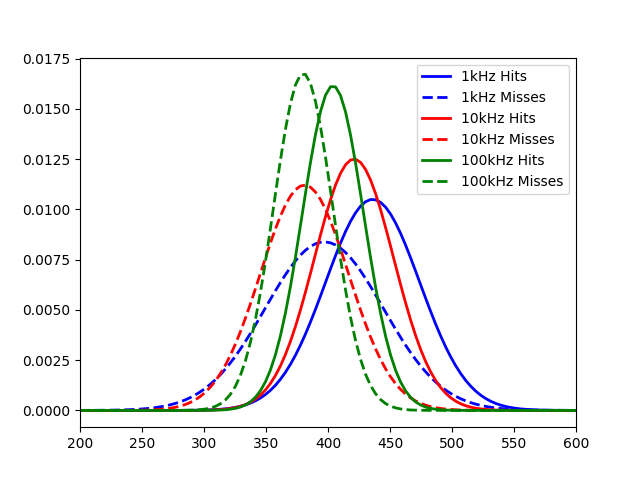
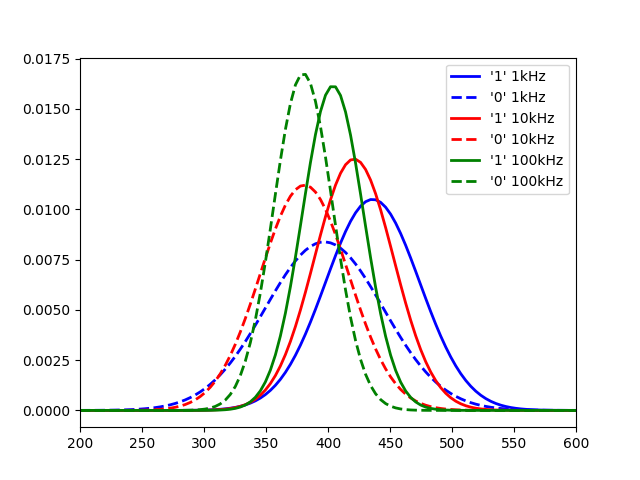
more data evaluation

Changed region(s): [[0.6562, 0.125, 0.875, 0.4062]]

diff --git a/data/intel/timings_fr.py b/data/intel/timings_fr.py
@@ -22,37 +22,37 @@ sm3 = 2.53
 
 plt.xlim(0, 300)
 xmin, xmax = plt.xlim()
-x = np.linspace(xmin, xmax, 100)
+x = np.linspace(xmin, xmax, 500)
 
 h1 = norm.pdf(x, mh1, sh1)
-plt.plot(x, h1, 'b-', linewidth=2, label="1kHz Hits")
+plt.plot(x, h1, 'b-', linewidth=2, label="'1' 1kHz")
 
 m1 = norm.pdf(x, mm1, sm1)
-plt.plot(x, m1, 'b--', linewidth=2, label="1kHz Misses")
+plt.plot(x, m1, 'b--', linewidth=2, label="'0' 1kHz")
 
 h2 = norm.pdf(x, mh2, sh2)
-plt.plot(x, h2, 'r-', linewidth=2, label="10kHz Hits")
+plt.plot(x, h2, 'r-', linewidth=2, label="'1' 10kHz")
 
 m2 = norm.pdf(x, mm2, sm2)
-plt.plot(x, m2, 'r--', linewidth=2, label="10kHz Misses")
+plt.plot(x, m2, 'r--', linewidth=2, label="'0' 10kHz")
 
 h3 = norm.pdf(x, mh3, sh3)
-plt.plot(x, h3, 'g-', linewidth=2, label="100kHz Hits")
+plt.plot(x, h3, 'g-', linewidth=2, label="'1' 100kHz")
 
 m3 = norm.pdf(x, mm3, sm3)
-plt.plot(x, m3, 'g--', linewidth=2, label="100kHz Misses")
+plt.plot(x, m3, 'g--', linewidth=2, label="'0' 100kHz")
 
 plt.legend()
 plt.show()
 
 f,(ax,ax2) = plt.subplots(1,2,sharey=True, facecolor='w')
 
-ax.plot(x, h1, 'b-', linewidth=2, label="1kHz Hits")
-ax2.plot(x, m1, 'b--', linewidth=2, label="1kHz Misses")
-ax.plot(x, h2, 'r-', linewidth=2, label="10kHz Hits")
-ax2.plot(x, m2, 'r--', linewidth=2, label="10kHz Misses")
-ax.plot(x, h3, 'g-', linewidth=2, label="100kHz Hits")
-ax2.plot(x, m3, 'g--', linewidth=2, label="100kHz Misses")
+ax.plot(x, h1, 'b-', linewidth=2, label="'1' 1kHz")
+ax2.plot(x, m1, 'b--', linewidth=2, label="'0' 1kHz")
+ax.plot(x, h2, 'r-', linewidth=2, label="'1' 10kHz")
+ax2.plot(x, m2, 'r--', linewidth=2, label="'0' 10kHz")
+ax.plot(x, h3, 'g-', linewidth=2, label="'1' 100kHz")
+ax2.plot(x, m3, 'g--', linewidth=2, label="'0' 100kHz")
 
 ax.set_xlim(30,55)
 ax2.set_xlim(255,280)
@@ -63,5 +63,7 @@ ax.yaxis.tick_left()
 ax.tick_params(labelright='off')
 ax2.yaxis.tick_right()
 
-plt.legend()
+ax.legend()
+ax2.legend()
+
 plt.show()

diff --git a/data/amd/timings_fr.py b/data/amd/timings_fr.py
@@ -22,25 +22,25 @@ sm3 = 159.5
 
 plt.xlim(0, 600)
 xmin, xmax = plt.xlim()
-x = np.linspace(xmin, xmax, 100)
+x = np.linspace(xmin, xmax, 500)
 
 h1 = norm.pdf(x, mh1, sh1)
-plt.plot(x, h1, 'b-', linewidth=2, label="1kHz Hits")
+plt.plot(x, h1, 'b-', linewidth=2, label="'1' 1kHz")
 
 m1 = norm.pdf(x, mm1, sm1)
-plt.plot(x, m1, 'b--', linewidth=2, label="1kHz Misses")
+plt.plot(x, m1, 'b--', linewidth=2, label="'0' 1kHz")
 
 h2 = norm.pdf(x, mh2, sh2)
-plt.plot(x, h2, 'r-', linewidth=2, label="10kHz Hits")
+plt.plot(x, h2, 'r-', linewidth=2, label="'1' 10kHz")
 
 m2 = norm.pdf(x, mm2, sm2)
-plt.plot(x, m2, 'r--', linewidth=2, label="10kHz Misses")
+plt.plot(x, m2, 'r--', linewidth=2, label="'0' 10kHz")
 
 h3 = norm.pdf(x, mh3, sh3)
-plt.plot(x, h3, 'g-', linewidth=2, label="100kHz Hits")
+plt.plot(x, h3, 'g-', linewidth=2, label="'1' 100kHz")
 
 m3 = norm.pdf(x, mm3, sm3)
-plt.plot(x, m3, 'g--', linewidth=2, label="100kHz Misses")
+plt.plot(x, m3, 'g--', linewidth=2, label="'0' 100kHz")
 
 plt.legend()
 plt.show()

diff --git a/data/amd/timings_ff.py b/data/amd/timings_ff.py
@@ -23,22 +23,22 @@ xmin, xmax = plt.xlim()
 x = np.linspace(xmin, xmax, 100)
 
 h1 = norm.pdf(x, mh1, sh1)
-plt.plot(x, h1, 'b-', linewidth=2, label="1kHz Hits")
+plt.plot(x, h1, 'b-', linewidth=2, label="'1' 1kHz")
 
 m1 = norm.pdf(x, mm1, sm1)
-plt.plot(x, m1, 'b--', linewidth=2, label="1kHz Misses")
+plt.plot(x, m1, 'b--', linewidth=2, label="'0' 1kHz")
 
 h2 = norm.pdf(x, mh2, sh2)
-plt.plot(x, h2, 'r-', linewidth=2, label="10kHz Hits")
+plt.plot(x, h2, 'r-', linewidth=2, label="'1' 10kHz")
 
 m2 = norm.pdf(x, mm2, sm2)
-plt.plot(x, m2, 'r--', linewidth=2, label="10kHz Misses")
+plt.plot(x, m2, 'r--', linewidth=2, label="'0' 10kHz")
 
 h3 = norm.pdf(x, mh3, sh3)
-plt.plot(x, h3, 'g-', linewidth=2, label="100kHz Hits")
+plt.plot(x, h3, 'g-', linewidth=2, label="'1' 100kHz")
 
 m3 = norm.pdf(x, mm3, sm3)
-plt.plot(x, m3, 'g--', linewidth=2, label="100kHz Misses")
+plt.plot(x, m3, 'g--', linewidth=2, label="'0' 100kHz")
 
 
 plt.legend()

diff --git a/data/intel/timings_ff.py b/data/intel/timings_ff.py
@@ -23,22 +23,22 @@ xmin, xmax = plt.xlim()
 x = np.linspace(xmin, xmax, 100)
 
 h1 = norm.pdf(x, mh1, sh1)
-plt.plot(x, h1, 'b-', linewidth=2, label="1kHz Hits")
+plt.plot(x, h1, 'b-', linewidth=2, label="'1' 1kHz")
 
 m1 = norm.pdf(x, mm1, sm1)
-plt.plot(x, m1, 'b--', linewidth=2, label="1kHz Misses")
+plt.plot(x, m1, 'b--', linewidth=2, label="'0' 1kHz")
 
 h2 = norm.pdf(x, mh2, sh2)
-plt.plot(x, h2, 'r-', linewidth=2, label="10kHz Hits")
+plt.plot(x, h2, 'r-', linewidth=2, label="'1' 10kHz")
 
 m2 = norm.pdf(x, mm2, sm2)
-plt.plot(x, m2, 'r--', linewidth=2, label="10kHz Misses")
+plt.plot(x, m2, 'r--', linewidth=2, label="'0' 10kHz")
 
 h3 = norm.pdf(x, mh3, sh3)
-plt.plot(x, h3, 'g-', linewidth=2, label="100kHz Hits")
+plt.plot(x, h3, 'g-', linewidth=2, label="'1' 100kHz")
 
 m3 = norm.pdf(x, mm3, sm3)
-plt.plot(x, m3, 'g--', linewidth=2, label="100kHz Misses")
+plt.plot(x, m3, 'g--', linewidth=2, label="'0' 100kHz")
 
 
 plt.legend()

diff --git a/evaluate_threshhold.py b/evaluate_threshhold.py
@@ -59,12 +59,12 @@ if (FF is True and mu_miss > mu_hit) or (FF is False and mu_hit > mu_miss):
     # fit for Hits
     mu_hit, std_hit = np.mean(hits_cleaned), np.std(hits_cleaned)
 
-plt.hist(hits, density=True, bins = 250, align="mid", alpha=0.6, color='g', label="Hits")
-plt.hist(misses, density=True, bins = 250, align="mid", histtype="barstacked", alpha=0.6, color='r', label="Misses")
+plt.hist(hits, density=True, bins = 1000, align="mid", alpha=0.6, color='g', label="'1'")
+plt.hist(misses, density=True, bins = 25, align="mid", histtype="barstacked", alpha=0.6, color='r', label="'0'")
 
 plt.xlim(
-0,#min(min(hits_cleaned), min(misses_cleaned)) - 5, 
-600)#max(max(hits_cleaned), max(misses_cleaned)) + 5)
+min(min(hits_cleaned), min(misses_cleaned)) - 5, 
+170)#max(max(hits_cleaned), max(misses_cleaned)) + 5)
 xmin, xmax = plt.xlim()
 x = np.linspace(xmin, xmax, 100)
 p1 = norm.pdf(x, mu_hit, std_hit)

diff --git a/data/get_diff.py b/data/get_diff.py
@@ -54,7 +54,7 @@ print("Wassersteind: " +str(wasserstein_distance(pred, act)))
 import random
 
 _tmp1 = []
-for _tmp2 in range(1000):
+for _tmp2 in range(10000):
     _x = [random.random() > 0.5 for _ in range(10000)]
     _y = [i if random.random() < acc else i^1 for i in _x]
     # _diff = [_x[i]^_y[i] for i in range(len(_x))]

diff --git a/data/intel/FF_100kHz/readme.md b/data/intel/FF_100kHz/readme.md
@@ -4,27 +4,27 @@ Fit results Misses: mu = 141.87,  std = 15.44
 5000
 
 Threshhold:  141.667247945282 
-Accuracy:  0.4589
+Accuracy:  0.5411
 
 Threshhold:  -83.44862224644491 
 Accuracy:  0.5
 
 
-THRESHHOLD:  -83.44862224644491
+THRESHHOLD:  141.667247945282
 
- [[5000    0]
- [5000    0]] 
+ [[2729 2271]
+ [2318 2682]] 
 
               precision    recall  f1-score   support
 
-         Hit       0.50      1.00      0.67      5000
-        Miss       0.00      0.00      0.00      5000
+         Hit       0.54      0.55      0.54      5000
+        Miss       0.54      0.54      0.54      5000
 
-    accuracy                           0.50     10000
-   macro avg       0.25      0.50      0.33     10000
-weighted avg       0.25      0.50      0.33     10000
+    accuracy                           0.54     10000
+   macro avg       0.54      0.54      0.54     10000
+weighted avg       0.54      0.54      0.54     10000
 
-Accuracy:  0.5
+Accuracy:  0.5411
 Results for the Transmission:
 
  [[3317 1853]
@@ -44,11 +44,3 @@ weighted avg       0.62      0.62      0.62     10000
 Wasserstein-Distance: 0.00540000
 
 ![image](Figure_1.png)
-
-Accuracy: 0.624  
-Wassersteind: 0.00539999999999996  
-Normal Distributed projected Wassersteind: 0.004814
-
-![e](errors.png)
-
-![e](error_groupings.png)
